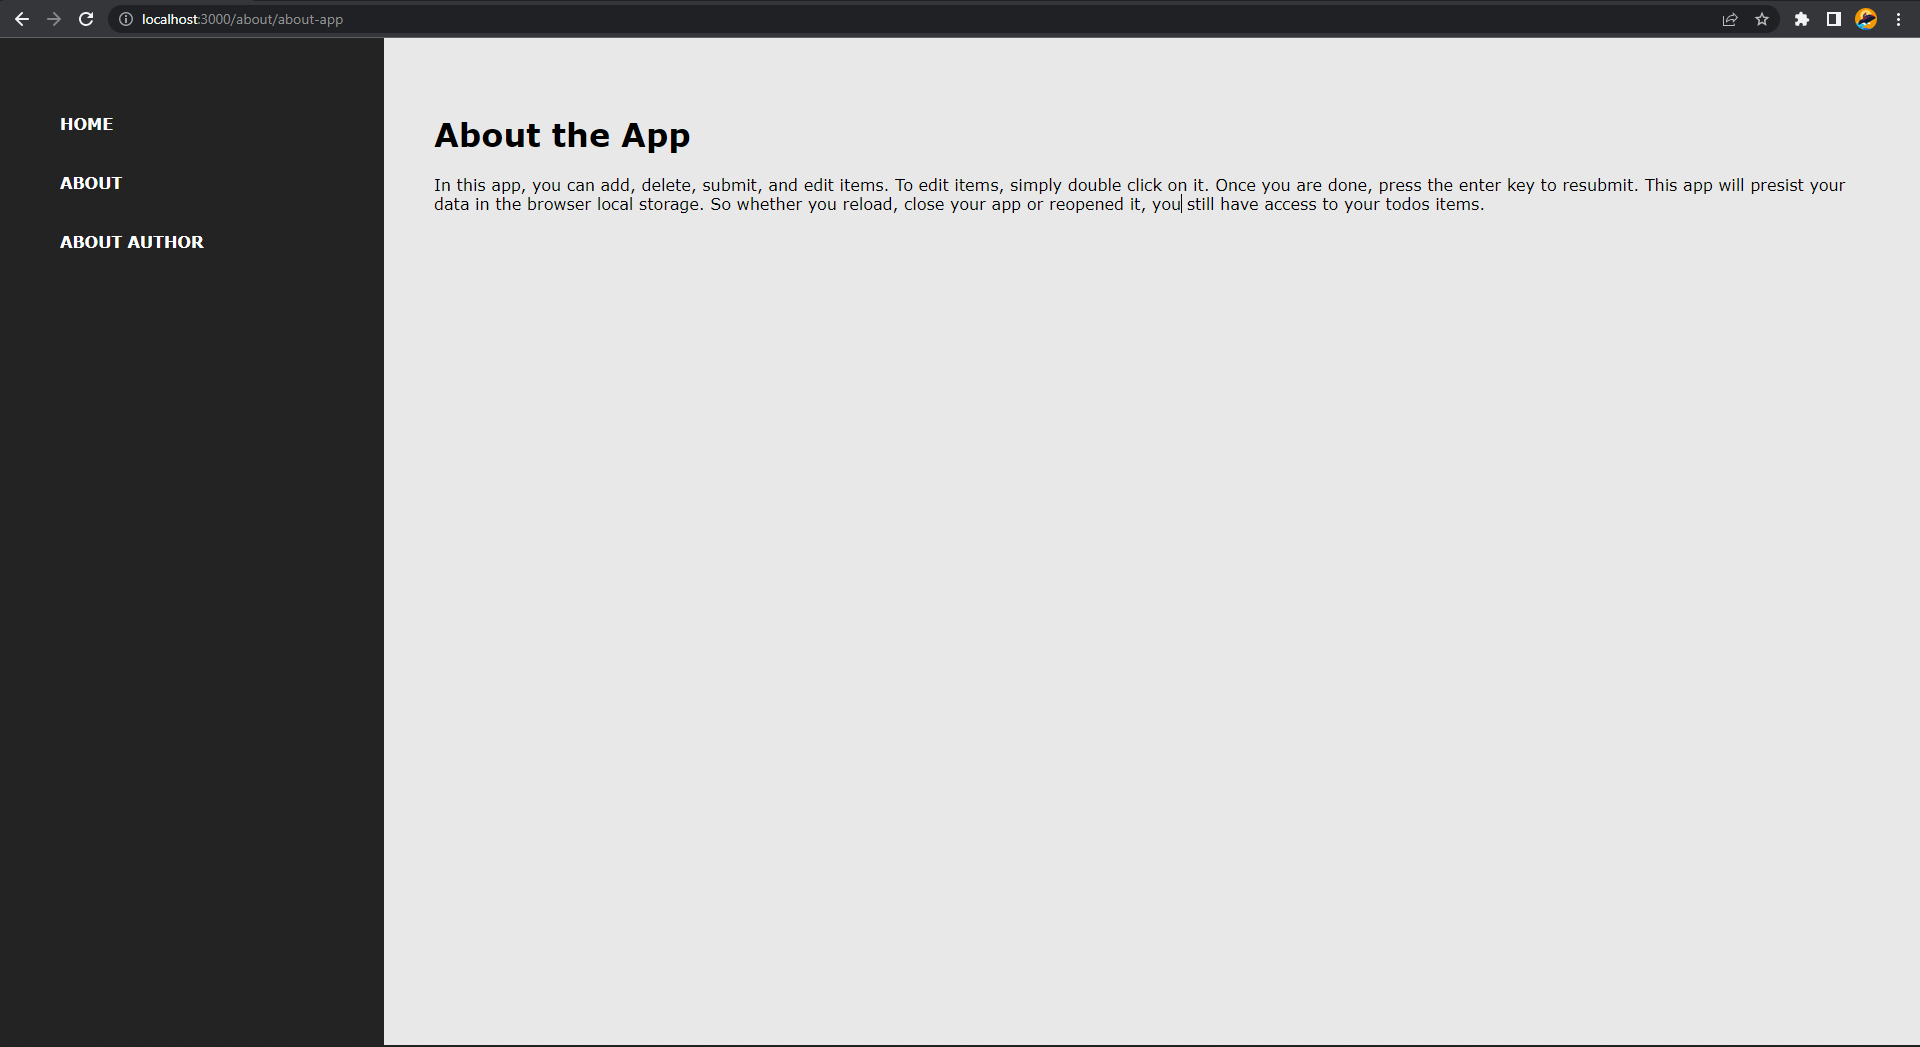
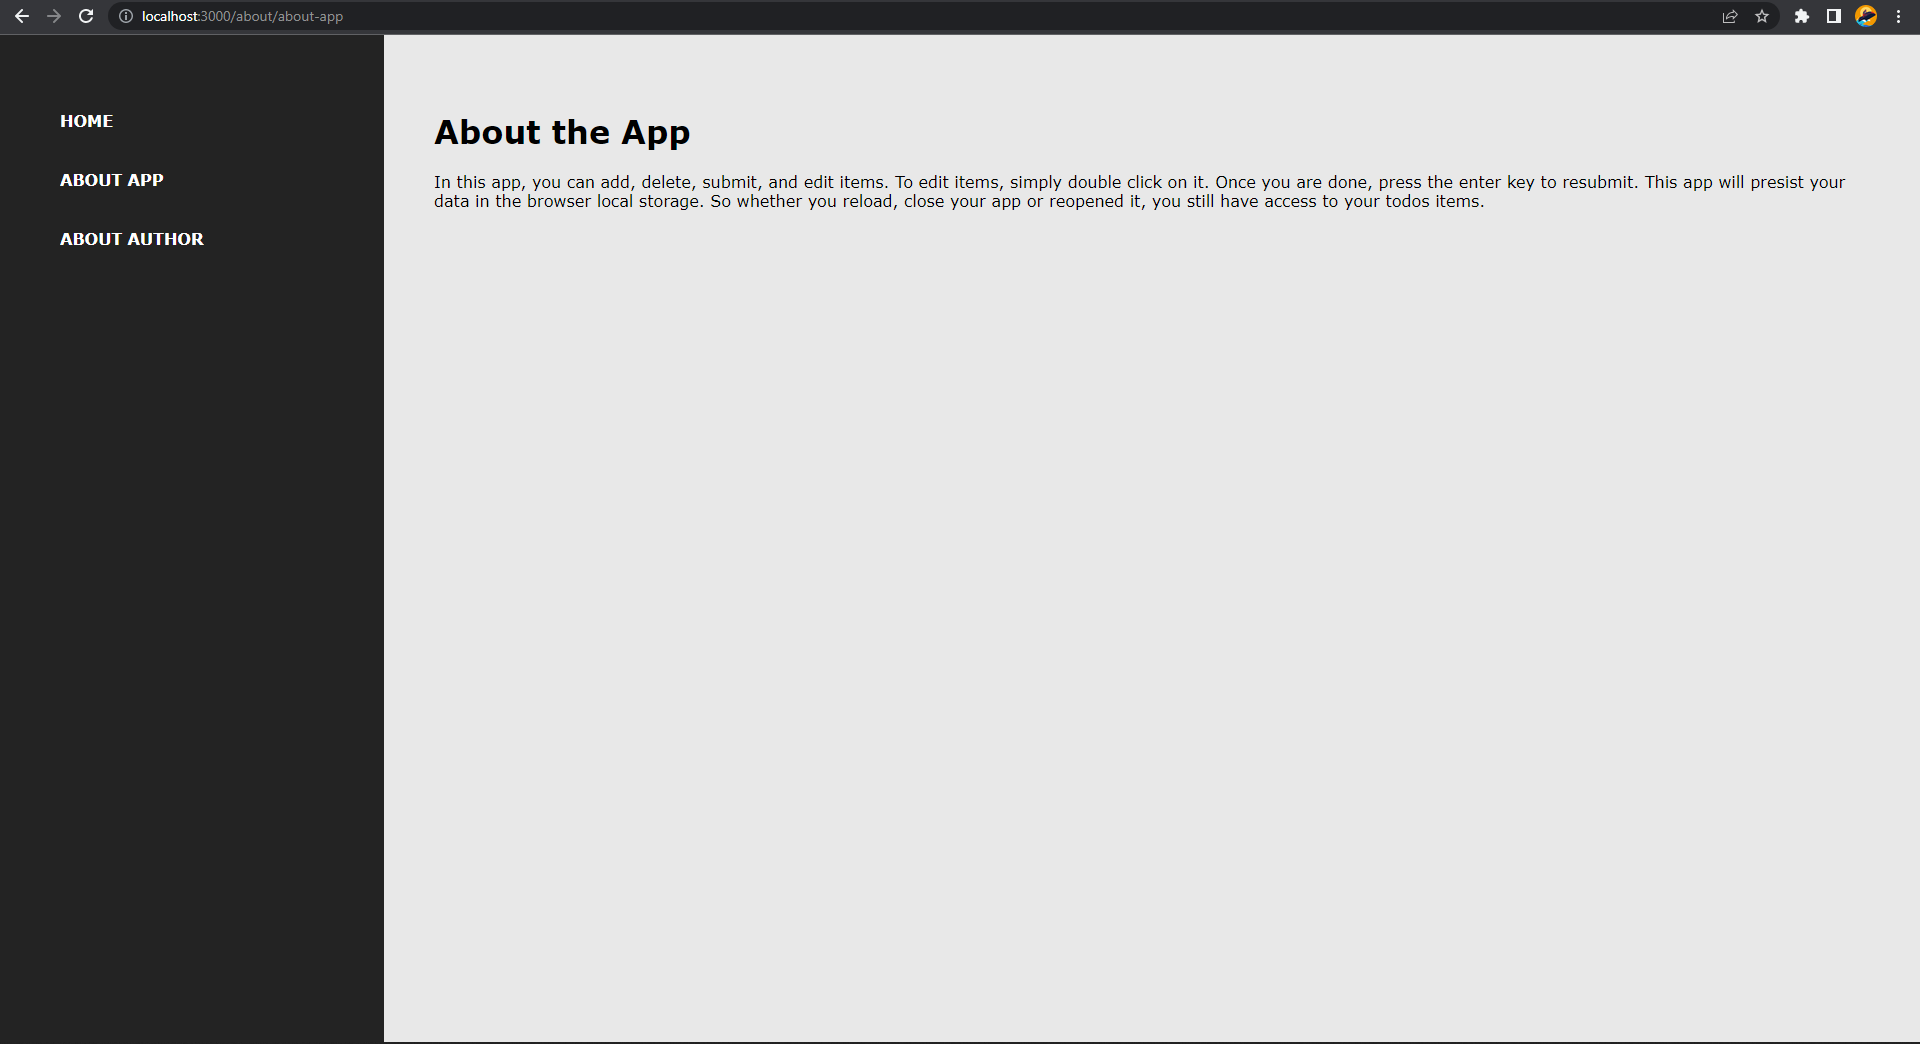
edit: about navbar

diff --git a/15_React_Routing/praktikum/src/components/About/NavBarAbout/NavBarAbout.js b/15_React_Routing/praktikum/src/components/About/NavBarAbout/NavBarAbout.js
@@ -11,7 +11,7 @@ const NavBarAbout = () => {
             home
           </Link>
           <Link to="/about/about-app" className="navItemAbout">
-            about
+            about app
           </Link>
           <Link to="/about/about-author" className="navItemAbout">
             about author
